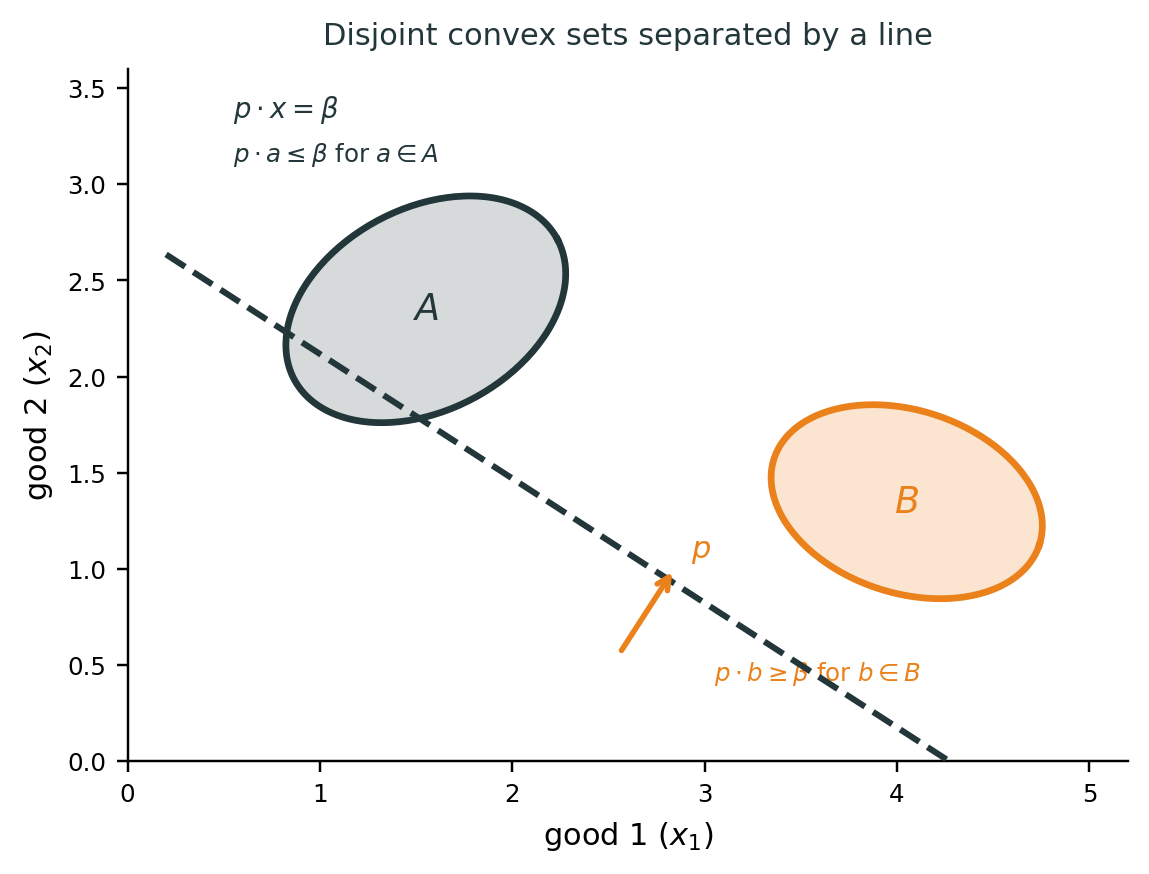
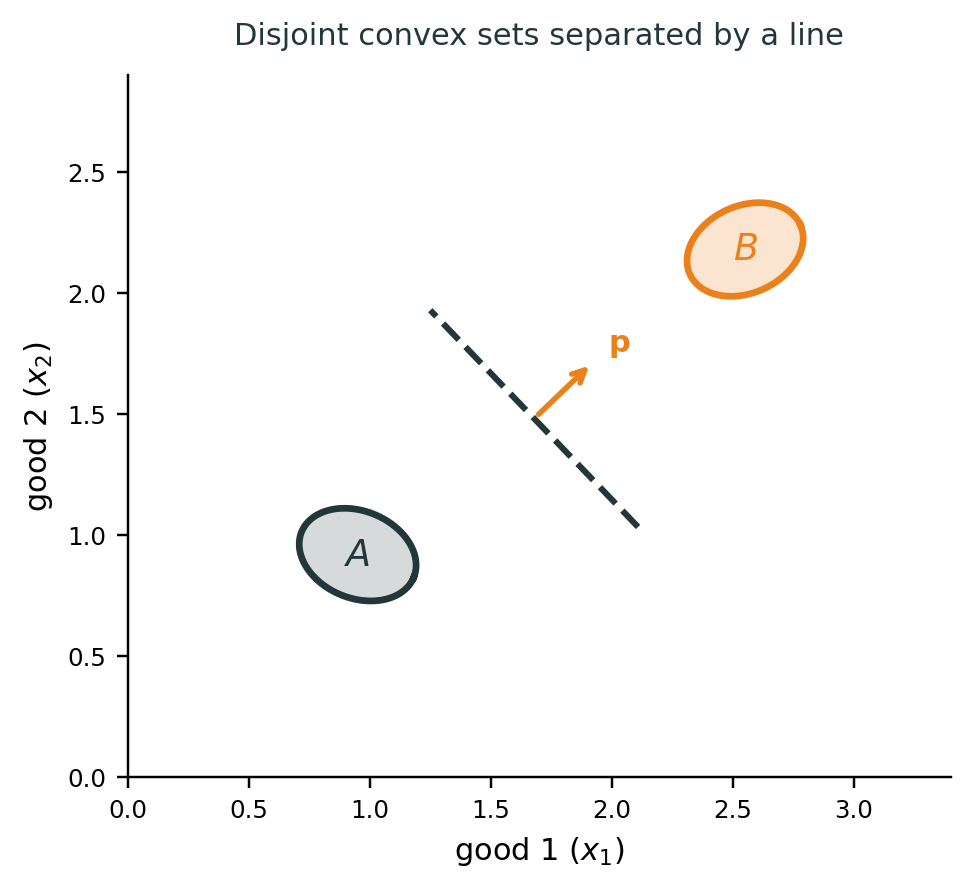
Refine Day 3 separation slides and fix separating-line figure.
Combine theorem and interpretation, add single-point remark, streamline the example, and regenerate the separation plot with a downward-sloping line between closer sets.

diff --git a/slides/day 3/figures/make_separation_plot.py b/slides/day 3/figures/make_separation_plot.py
@@ -16,7 +16,7 @@ def _ellipse_points(
     width: float,
     height: float,
     angle_deg: float,
-    n: int = 200,
+    n: int = 360,
 ) -> tuple[np.ndarray, np.ndarray]:
     t = np.linspace(0.0, 2.0 * np.pi, n)
     x_local = 0.5 * width * np.cos(t)
@@ -27,17 +27,44 @@ def _ellipse_points(
     return center[0] + xy[0], center[1] + xy[1]
 
 
-def make_separation_plot() -> None:
-    """Disjoint convex sets A, B and a separating line p·x = beta in R^2."""
-    fig, ax = plt.subplots(figsize=(5.6, 4.0), dpi=220)
+def _dot_range(
+    center: tuple[float, float],
+    width: float,
+    height: float,
+    angle_deg: float,
+    p: np.ndarray,
+) -> tuple[float, float]:
+    xs, ys = _ellipse_points(center, width, height, angle_deg)
+    dots = p[0] * xs + p[1] * ys
+    return float(dots.min()), float(dots.max())
 
-    center_a = (1.55, 2.35)
-    center_b = (4.05, 1.35)
+
+def make_separation_plot() -> None:
+    """A below a downward-sloping line; B above; p has positive components."""
+    # A lower-left, B upper-right so positive p separates with a downward-sloping line.
+    center_a = (0.95, 0.92)
+    center_b = (2.55, 2.18)
+    width, height = 0.50, 0.36
+    angle_a, angle_b = -22.0, 24.0
+
+    p = np.array([0.72, 0.69])
+    p = p / np.linalg.norm(p)
+
+    max_a, _ = _dot_range(center_a, width, height, angle_a, p)
+    _, min_b = _dot_range(center_b, width, height, angle_b, p)
+    gap = min_b - max_a
+    if gap <= 0.05:
+        raise RuntimeError("Ellipses overlap along separating direction.")
+
+    beta = max_a + 0.45 * gap
+
+    fig, ax = plt.subplots(figsize=(5.6, 4.2), dpi=220)
+
     ellipse_a = Ellipse(
         center_a,
-        width=1.55,
-        height=1.05,
-        angle=28.0,
+        width=width,
+        height=height,
+        angle=angle_a,
         facecolor=DARK_TEAL,
         edgecolor=DARK_TEAL,
         alpha=0.18,
@@ -46,9 +73,9 @@ def make_separation_plot() -> None:
     )
     ellipse_b = Ellipse(
         center_b,
-        width=1.45,
-        height=0.95,
-        angle=-18.0,
+        width=width,
+        height=height,
+        angle=angle_b,
         facecolor=ACCENT,
         edgecolor=ACCENT,
         alpha=0.20,
@@ -58,49 +85,84 @@ def make_separation_plot() -> None:
     ax.add_patch(ellipse_a)
     ax.add_patch(ellipse_b)
 
-    xa, ya = _ellipse_points(center_a, 1.55, 1.05, 28.0)
-    xb, yb = _ellipse_points(center_b, 1.45, 0.95, -18.0)
+    xa, ya = _ellipse_points(center_a, width, height, angle_a)
+    xb, yb = _ellipse_points(center_b, width, height, angle_b)
     ax.plot(xa, ya, color=DARK_TEAL, linewidth=2.2, zorder=3)
     ax.plot(xb, yb, color=ACCENT, linewidth=2.2, zorder=3)
 
-    # Separating line: p = (0.55, 0.85), beta = 2.35
-    p1, p2, beta = 0.55, 0.85, 2.35
-    x_line = np.linspace(0.2, 5.0, 2)
-    y_line = (beta - p1 * x_line) / p2
-    ax.plot(x_line, y_line, color=DARK_TEAL, linewidth=2.0, linestyle="--", zorder=4)
+    tangent = np.array([-p[1], p[0]])
+    gap_mid = 0.5 * (np.array(center_a) + np.array(center_b))
+    line_center = gap_mid - (np.dot(p, gap_mid) - beta) * p
+    seg_half = 0.62
+    line_start = line_center - seg_half * tangent
+    line_end = line_center + seg_half * tangent
+    ax.plot(
+        [line_start[0], line_end[0]],
+        [line_start[1], line_end[1]],
+        color=DARK_TEAL,
+        linewidth=2.0,
+        linestyle="--",
+        zorder=4,
+    )
 
-    arrow_start = np.array([2.55, 0.55])
-    p_vec = np.array([p1, p2])
-    p_vec = 0.55 * p_vec / np.linalg.norm(p_vec)
+    arrow_len = 0.34
     ax.annotate(
         "",
-        xy=arrow_start + p_vec,
-        xytext=arrow_start,
+        xy=line_center + arrow_len * p,
+        xytext=line_center,
         arrowprops=dict(arrowstyle="->", color=ACCENT, lw=1.8),
         zorder=5,
     )
-    ax.text(arrow_start[0] + p_vec[0] + 0.08, arrow_start[1] + p_vec[1] + 0.05, r"$p$", color=ACCENT, fontsize=10)
+    ax.text(
+        line_center[0] + arrow_len * p[0] + 0.06,
+        line_center[1] + arrow_len * p[1] + 0.04,
+        r"$\mathbf{p}$",
+        color=ACCENT,
+        fontsize=10,
+        zorder=6,
+    )
 
-    ax.text(center_a[0], center_a[1], r"$A$", fontsize=12, color=DARK_TEAL, ha="center", va="center", fontweight="bold")
-    ax.text(center_b[0], center_b[1], r"$B$", fontsize=12, color=ACCENT, ha="center", va="center", fontweight="bold")
+    ax.text(
+        center_a[0],
+        center_a[1],
+        r"$A$",
+        fontsize=12,
+        color=DARK_TEAL,
+        ha="center",
+        va="center",
+        fontweight="bold",
+        zorder=6,
+    )
+    ax.text(
+        center_b[0],
+        center_b[1],
+        r"$B$",
+        fontsize=12,
+        color=ACCENT,
+        ha="center",
+        va="center",
+        fontweight="bold",
+        zorder=6,
+    )
 
-    ax.text(0.55, 3.35, r"$p \cdot x = \beta$", fontsize=9, color=DARK_TEAL)
-    ax.text(0.55, 3.12, r"$p \cdot a \leq \beta$ for $a \in A$", fontsize=8, color=DARK_TEAL)
-    ax.text(3.05, 0.42, r"$p \cdot b \geq \beta$ for $b \in B$", fontsize=8, color=ACCENT)
-
-    ax.set_xlim(0.0, 5.2)
-    ax.set_ylim(0.0, 3.6)
+    ax.set_xlim(0.0, 3.4)
+    ax.set_ylim(0.0, 2.9)
     ax.set_xlabel(r"good 1 ($x_1$)", fontsize=10)
     ax.set_ylabel(r"good 2 ($x_2$)", fontsize=10)
-    ax.set_title(r"Disjoint convex sets separated by a line", fontsize=10, color=DARK_TEAL, pad=8)
+    ax.set_title(
+        r"Disjoint convex sets separated by a line",
+        fontsize=10,
+        color=DARK_TEAL,
+        pad=10,
+    )
     ax.set_aspect("equal", adjustable="box")
     ax.spines["top"].set_visible(False)
     ax.spines["right"].set_visible(False)
     ax.tick_params(labelsize=8)
 
     out = OUT_DIR / "separation_hyperplane.png"
-    fig.tight_layout()
-    fig.savefig(out, bbox_inches="tight", facecolor="white")
+    fig.subplots_adjust(top=0.90, bottom=0.14, left=0.12, right=0.98)
+    fig.savefig(out, bbox_inches="tight", facecolor="white", pad_inches=0.10)
     plt.close(fig)
     print(f"Wrote {out}")
 

diff --git a/slides/day 3/day03_linear_algebra_and_analysis.tex b/slides/day 3/day03_linear_algebra_and_analysis.tex
@@ -175,92 +175,51 @@
 
 \section{3.2 --- Separation Theorem}
 
-\begin{frame}[plain]{3.2 Separation --- picture}
+\begin{frame}{3.2 Separating Hyperplane Theorem}
+  \footnotesize
+  \textbf{Setup.}\ Two nonempty \textbf{convex} sets $A,B\subset\mathbb{R}^n$ with $A\cap B=\varnothing$.
+
+  \medskip
+  \textbf{Theorem.}\ If $A$ is \textbf{compact}, then there exist $\mathbf{p}\neq\mathbf{0}$ and $\beta\in\mathbb{R}$ such that
+  $\mathbf{p}\cdot a\le\beta\le\mathbf{p}\cdot b$ for all $a\in A$, $b\in B$.
+  Geometrically: the hyperplane $\mathbf{p}\cdot x=\beta$ separates $A$ from $B$.
+
+  \medskip
+  \textbf{In two goods ($x=(x_1,x_2)$).}\ The line $p_1 x_1+p_2 x_2=\beta$ puts all of $A$ on one side
+  ($\mathbf{p}\cdot a\le\beta$) and all of $B$ on the other ($\mathbf{p}\cdot b\ge\beta$);
+  $\mathbf{p}$ is the normal, $\beta$ fixes the line's position.
+
+  \medskip
+  \textbf{Remark (single point).}\ If $B=\{b_0\}$ is one point outside a closed convex set $A$,
+  a separating hyperplane exists even when $A$ is not compact.
+\end{frame}
+
+\begin{frame}[plain]{}
   \centering
-  \vfill
-  \includegraphics[width=0.78\textwidth]{figures/separation_hyperplane.png}
-  \vfill
+  \vspace{-0.15cm}
+  \includegraphics[width=0.88\textwidth,height=0.92\textheight,keepaspectratio]{figures/separation_hyperplane.png}
 \end{frame}
 
-\begin{frame}{3.2 What $\mathbf{p}\cdot a\le\beta\le\mathbf{p}\cdot b$ means}
+\begin{frame}{3.2 Example --- production set vs.\ preferred bundles}
   \footnotesize
-  \textbf{Two dimensions, two goods.}\ Write a bundle as $a=(a_1,a_2)$.
-  A \textbf{price line} is
-  \[
-    p_1 x_1 + p_2 x_2 = \beta
-    \qquad\text{(same as }\mathbf{p}\cdot x=\beta\text{)}.
-  \]
-
-  \medskip
-  \textbf{Reading the inequalities.}
+  \textbf{Classic micro example.}\ Two goods. Let
   \begin{itemize}
-    \item $\mathbf{p}\cdot a\le\beta$ for all $a\in A$: every point of $A$ lies on the
-      \textbf{same side} of the line (here: on or below it).
-    \item $\mathbf{p}\cdot b\ge\beta$ for all $b\in B$: every point of $B$ lies on the
-      \textbf{opposite side} (here: on or above it).
+    \item $A$ = \textbf{production possibility set} (feasible output combinations);
+    \item $B$ = bundles \textbf{strictly preferred} to the status quo $\bar x$ (better indifference curves).
   \end{itemize}
+  If preferences are convex, $B$ is convex. If no feasible bundle is strictly preferred to $\bar x$,
+  then $A\cap B=\varnothing$.
 
   \medskip
-  So $A$ and $B$ are \textbf{separated} by one straight line; $\mathbf{p}$ is the slope/normal of that line,
-  and $\beta$ fixes its position. No matrices needed --- just prices and a budget line.
-\end{frame}
-
-\begin{frame}{3.2 Example --- feasible vs.\ preferred bundles}
-  \footnotesize
-  \textbf{Setup.}\ One consumer, two goods. Let
-  \begin{itemize}
-    \item $A$ = \textbf{feasible} bundles (can be produced / afforded at given resources);
-    \item $B$ = bundles \textbf{strictly preferred} to the status quo (better indifference curves).
-  \end{itemize}
-  If preferences are convex, $B$ is convex. If $A\cap B=\varnothing$, a separating line exists.
+  \textbf{Separation $\Rightarrow$ prices.}\ The theorem gives $\mathbf{p}^*$ and $\beta$ with
+  $\mathbf{p}^*\cdot a\le\beta\le\mathbf{p}^*\cdot b$ for all $a\in A$, $b\in B$.
+  At a boundary point $a^*\in A$, the line $\mathbf{p}^*\cdot x=\beta$ is a \textbf{supporting price line}:
+  the firm produces $a^*$ where profit $\mathbf{p}^*\cdot a$ is maximized over $A$.
 
   \medskip
-  \textbf{Numerical sketch.}\ Suppose the line is $p_1 x_1 + p_2 x_2 = 100$ with $\mathbf{p}=(2,5)$.
-  \begin{itemize}
-    \item Feasible bundle $a=(10,16)$: $2\cdot10+5\cdot16=100$ --- on the line (cheapest feasible choice).
-    \item Preferred bundle $b=(14,18)$: $2\cdot14+5\cdot18=118>100$ --- above the line, not affordable at these prices.
-  \end{itemize}
-
-  \medskip
-  At a competitive allocation, a price line can sit between ``what is possible'' and ``what everyone wants more of.''
-\end{frame}
-
-\begin{frame}{3.2 First Welfare Theorem --- simple argument}
-  \footnotesize
-  \textbf{Statement.}\ Under standard convexity, a competitive equilibrium allocation is \textbf{Pareto efficient}.
-
-  \medskip
-  \textbf{Proof idea (4 steps).}
-  \begin{enumerate}
-    \item In equilibrium, each consumer chooses a best affordable bundle; each firm maximizes profit at prices $\mathbf{p}^*$.
-    \item Suppose another allocation $\tilde x$ is Pareto better: everyone weakly better off, someone strictly.
-    \item With convex preferences, if $\tilde x$ were affordable at $\mathbf{p}^*$, some agent would have chosen it --- contradiction.
-    \item So any Pareto improvement must use bundles that are \textbf{not affordable} at $\mathbf{p}^*$: the aggregate ``better than'' set
-      lies on the expensive side of the equilibrium price line, while feasible aggregates stay on the cheap side.
-      \textbf{Separation} is exactly the geometry behind step 4.
-  \end{enumerate}
-\end{frame}
-
-\begin{frame}{3.2 Duality and separation}
-  \footnotesize
-  \textbf{Primal problem (example).}\ ``Choose $x$ to maximize utility subject to a budget / resource constraint.''
-  \[
-    \max u(x)\quad\text{s.t.}\quad \mathbf{p}\cdot x \le w.
-  \]
-
-  \medskip
-  \textbf{Dual side.}\ The prices $\mathbf{p}$ and cutoff $\beta$ in
-  $\mathbf{p}\cdot x\le\beta$ are \textbf{shadow values}:
-  \begin{itemize}
-    \item they tell how much one unit of each good ``costs'' at the margin;
-    \item in constrained optimization, Lagrange multipliers play the role of $\mathbf{p}$;
-    \item a \textbf{separating line} is the same object: coefficients $\mathbf{p}$ and level $\beta$ that
-      separate feasible from preferred points.
-  \end{itemize}
-
-  \medskip
-  \textbf{Link.}\ Separation $\Leftrightarrow$ existence of prices supporting an efficient allocation
-  $\Leftrightarrow$ dual variables in the primal problem. Day~4--5 make this algorithmic (LP, KKT).
+  \textbf{Numbers.}\ If $\mathbf{p}^*=(2,5)$ and $\beta=100$, then $a=(10,16)$ lies on the line
+  ($2\cdot10+5\cdot16=100$) while a preferred bundle $b=(14,18)$ costs $118>100$ --- affordable
+  production stays on one side, strictly better bundles on the other.
 \end{frame}
 
 \end{document}